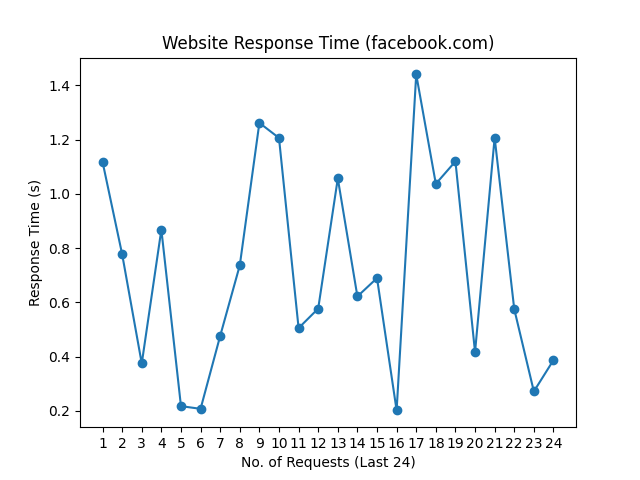
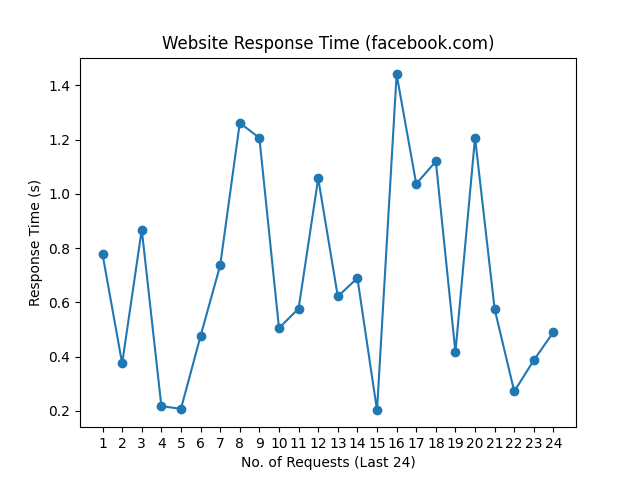
update README.md, history and graph

Changed region(s): [[0.1562, 0.125, 0.875, 0.875]]

diff --git a/README.md b/README.md
@@ -1,10 +1,10 @@
 # Web Monitoring
 
-Last Checked: 06/10/2024 08:21
+Last Checked: 07/10/2024 08:20
 
 | Website | Response Time (s) | Status | Avg Uptime (%) |
 |---------|-------------------|--------|----------------|
 | www.thiswebsiteisdown.net | 0 <br> <img src="graph/thiswebsiteisdown.net.png" alt="Graph" width="200" height="200">  | ❌ Down | 0.00 |
-| www.netflix.com | 0.786290 <br> <img src="graph/netflix.com.png" alt="Graph" width="200" height="200">  | ✅ Up | 100.00 |
-| www.google.com | 0.073808 <br> <img src="graph/google.com.png" alt="Graph" width="200" height="200">  | ✅ Up | 100.00 |
-| www.facebook.com | 0.386868 <br> <img src="graph/facebook.com.png" alt="Graph" width="200" height="200">  | ✅ Up | 100.00 |
+| www.netflix.com | 1.178073 <br> <img src="graph/netflix.com.png" alt="Graph" width="200" height="200">  | ✅ Up | 100.00 |
+| www.google.com | 0.070511 <br> <img src="graph/google.com.png" alt="Graph" width="200" height="200">  | ✅ Up | 100.00 |
+| www.facebook.com | 0.490456 <br> <img src="graph/facebook.com.png" alt="Graph" width="200" height="200">  | ✅ Up | 100.00 |
